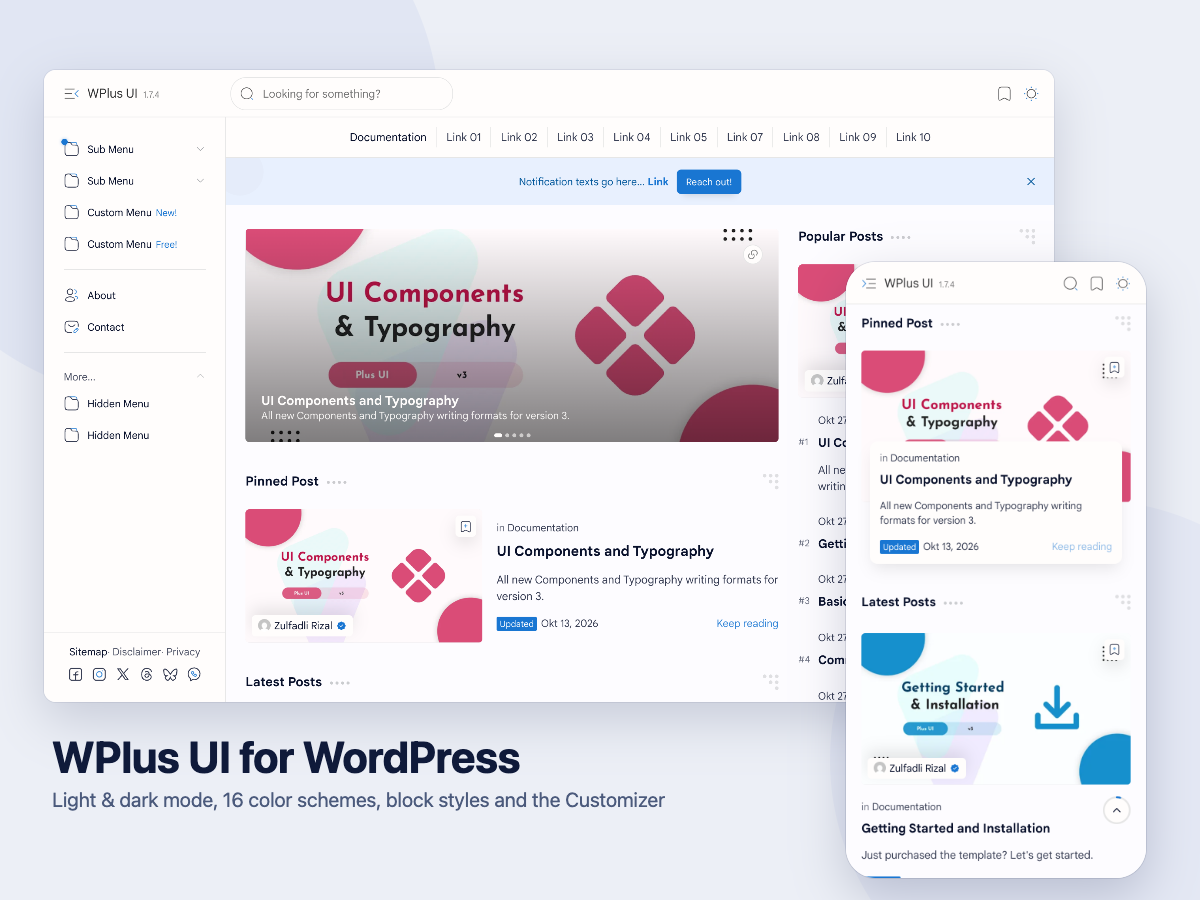
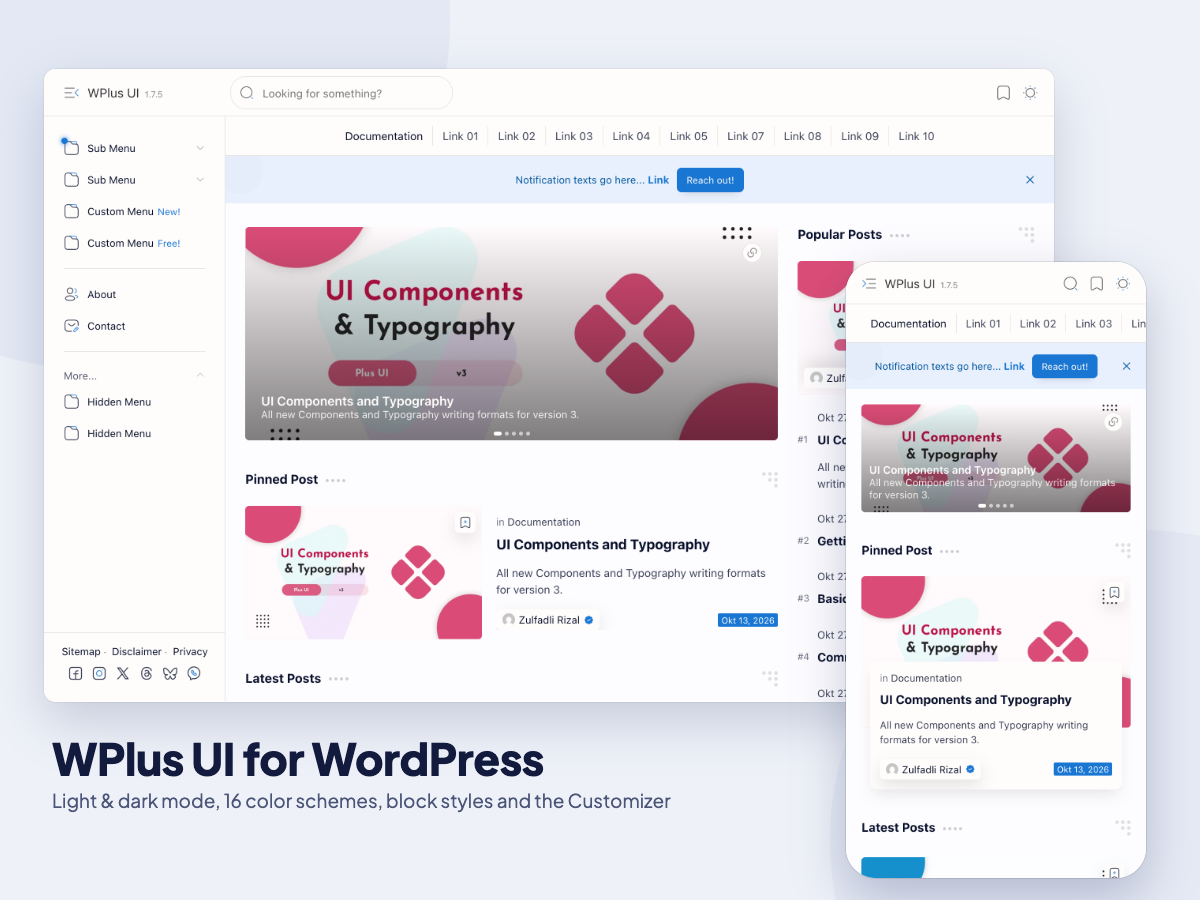
1.7.5: update notices appear on their own, sidebar footer menu, new post cards and tag blocks, code label only when set, rounded ad pictures, demo with code labels/footer menu/tags, new theme screenshot; tests and docs

diff --git a/wp-content/themes/wplus-ui/assets/css/style.css b/wp-content/themes/wplus-ui/assets/css/style.css
@@ -5,11 +5,11 @@
 
      Name             : WPlus UI
      Id               : wplus-ui
-     Version          : 1.7.4
+     Version          : 1.7.5
      Stage            : release
      Type             : Freemium
      Published        : October 02, 2026
-     Updated          : October 15, 2026
+     Updated          : October 20, 2026
      Platform         : WordPress
      CSS              : Vanilla
      JavaScript       : Vanilla, Modules
@@ -8549,11 +8549,11 @@ body .VIpgJd-ZVi9od-aZ2wEe .VIpgJd-ZVi9od-aZ2wEe-Jt5cK {
 
      Name             : WPlus UI
      Id               : wplus-ui
-     Version          : 1.7.4
+     Version          : 1.7.5
      Stage            : release
      Type             : Freemium
      Published        : October 02, 2026
-     Updated          : October 15, 2026
+     Updated          : October 20, 2026
      Platform         : WordPress
      CSS              : Vanilla
      JavaScript       : Vanilla, Modules
@@ -11949,11 +11949,11 @@ a.prfL:hover {
 
      Name             : WPlus UI
      Id               : wplus-ui
-     Version          : 1.7.4
+     Version          : 1.7.5
      Stage            : release
      Type             : Freemium
      Published        : October 02, 2026
-     Updated          : October 15, 2026
+     Updated          : October 20, 2026
      Platform         : WordPress
      CSS              : Vanilla
      JavaScript       : Vanilla, Modules
@@ -15034,11 +15034,11 @@ html:has(.papW:not([hidden]):not(.hidden)) {
 
      Name             : WPlus UI
      Id               : wplus-ui
-     Version          : 1.7.4
+     Version          : 1.7.5
      Stage            : release
      Type             : Freemium
      Published        : October 02, 2026
-     Updated          : October 15, 2026
+     Updated          : October 20, 2026
      Platform         : WordPress
      CSS              : Vanilla
      JavaScript       : Vanilla, Modules
@@ -18136,11 +18136,11 @@ img.ldC,
 
      Name             : WPlus UI
      Id               : wplus-ui
-     Version          : 1.7.4
+     Version          : 1.7.5
      Stage            : release
      Type             : Freemium
      Published        : October 02, 2026
-     Updated          : October 15, 2026
+     Updated          : October 20, 2026
      Platform         : WordPress
      CSS              : Vanilla
      JavaScript       : Vanilla, Modules

diff --git a/wp-content/themes/wplus-ui/style.css b/wp-content/themes/wplus-ui/style.css
@@ -4,7 +4,7 @@ Theme URI: https://github.com/zulfame/wplus-ui
 Author: Zulfadli Rizal
 Author URI: https://github.com/zulfame
 Description: WPlus UI is a WordPress theme forked from Plus UI by Fineshop Design, with light/dark mode, 16 color schemes, a pinned post, carousel, popup comments, bookmarks and block editor support.
-Version: 1.7.4
+Version: 1.7.5
 Requires at least: 6.3
 Tested up to: 7.0
 Requires PHP: 7.4

diff --git a/wp-content/themes/wplus-ui/demo-content/import-demo.php b/wp-content/themes/wplus-ui/demo-content/import-demo.php
@@ -21,9 +21,9 @@ require_once ABSPATH . 'wp-admin/includes/image.php';
 
 $dir = __DIR__ . '/images/';
 $map = array(
-	'ui-components-and-typography'      => array( 'ui-components-and-typography.png', array( 'featured' ), true ),
-	'getting-started-and-installation'  => array( 'getting-started-and-installation.png', array( 'featured' ) ),
-	'basic-setup-and-guidelines'        => array( 'basic-setup-and-guidelines.png', array( 'featured' ) ),
+	'ui-components-and-typography'      => array( 'ui-components-and-typography.png', array( 'featured', 'components', 'typography' ), true ),
+	'getting-started-and-installation'  => array( 'getting-started-and-installation.png', array( 'featured', 'tutorial', 'setup' ) ),
+	'basic-setup-and-guidelines'        => array( 'basic-setup-and-guidelines.png', array( 'featured', 'setup', 'guidelines' ) ),
 	'appearance-and-customization'      => array( 'appearance-and-customization.png' ),
 	'navigation-menu-customization'     => array( 'navigation-menu-customization.png' ),
 	'comment-settings-and-integrations' => array( 'comment-settings-and-integrations.png' ),
@@ -193,6 +193,34 @@ foreach ( array(
 	if ( $menu ) {
 		$locations[ $loc ] = $menu->term_id;
 	}
+}
+
+// Links at the bottom of the sidebar menu: a small menu of its own, so the demo shows how to edit them.
+$footer_menu = wp_get_nav_menu_object( 'Sidebar Footer Links' );
+if ( ! $footer_menu ) {
+	$footer_menu_id = wp_create_nav_menu( 'Sidebar Footer Links' );
+	if ( ! is_wp_error( $footer_menu_id ) ) {
+		foreach ( array(
+			'Sitemap'    => home_url( '/sitemap.xml' ),
+			'Disclaimer' => '#',
+			'Privacy'    => '#',
+		) as $label => $url ) {
+			wp_update_nav_menu_item(
+				$footer_menu_id,
+				0,
+				array(
+					'menu-item-title'  => $label,
+					'menu-item-url'    => $url,
+					'menu-item-type'   => 'custom',
+					'menu-item-status' => 'publish',
+				)
+			);
+		}
+		$footer_menu = wp_get_nav_menu_object( $footer_menu_id );
+	}
+}
+if ( $footer_menu ) {
+	$locations['drawer-footer'] = $footer_menu->term_id;
 }
 set_theme_mod( 'nav_menu_locations', $locations );
 

diff --git a/wp-content/themes/wplus-ui/functions.php b/wp-content/themes/wplus-ui/functions.php
@@ -9,7 +9,7 @@ if ( ! defined( 'ABSPATH' ) ) {
 	exit;
 }
 
-define( 'WPLUSUI_VERSION', '1.7.4' );
+define( 'WPLUSUI_VERSION', '1.7.5' );
 define( 'WPLUSUI_DIR', get_template_directory() );
 define( 'WPLUSUI_URI', get_template_directory_uri() );
 

diff --git a/docs/TRACE.md b/docs/TRACE.md
@@ -819,20 +819,20 @@ Setiap fitur di [FITUR.md](FITUR.md) dipecah menjadi klaim bernomor (`A01-1`, `A
 | Klaim | Pernyataan | Desktop | Mobile | Umum |
 |---|---|---|---|---|
 | M02-1 | Selesaikan demo dijalankan dua kali: jumlah pos, halaman, lampiran, menu, item menu, sticky, gambar unggulan tidak berubah |  |  | ✔ |
-| M02-2 | hasil: pos sticky ada, 19 gambar unggulan, 2 menu |  |  | ✔ |
+| M02-2 | hasil: pos sticky ada, 19 gambar unggulan, 3 menu |  |  | ✔ |
 | M02-3 | menimpa pengaturan Customizer dengan nilai demo (teks notifikasi buatan pemilik diganti teks demo) |  |  | ✔ |
 
 ### M03 Paket demo terpisah (13/13)
 
 | Klaim | Pernyataan | Desktop | Mobile | Umum |
 |---|---|---|---|---|
-| M03-1 | zip tema tanpa konten demo dan kecil (1.23 MB < 2 MB), hanya berisi logo dan 7 gambar galeri di assets/images (dirujuk teks pos demo lama); paket demo terpisah berisi XML, skrip impor, README dan 30 gambar |  |  | ✔ |
+| M03-1 | zip tema tanpa konten demo dan kecil (1.24 MB < 2 MB), hanya berisi logo dan 7 gambar galeri di assets/images (dirujuk teks pos demo lama); paket demo terpisah berisi XML, skrip impor, README dan 30 gambar |  |  | ✔ |
 | M03-2 | tema terpasang dari zip tidak punya folder demo-content dan tidak menemukan konten demo |  |  | ✔ |
 | M03-3 | halaman WPlus UI Demo tanpa paket: menawarkan "Download demo content" dan belum menampilkan langkah impor |  |  | ✔ |
 | M03-4 | rilis tanpa paket demo: pesan "tidak ditemukan"; checksum salah: dibatalkan; keduanya tidak meninggalkan berkas |  |  | ✔ |
 | M03-5 | unduh paket demo (checksum cocok): dibuka ke uploads/wplus-ui-demo dengan XML, skrip impor, 30 gambar; tautan XML menunjuk ke sana |  |  | ✔ |
 | M03-6 | halaman WPlus UI Demo sesudah unduh: langkah impor dan "Finish demo setup" tampil, tombol unduh hilang |  |  | ✔ |
-| M03-7 | impor XML dan "Finish demo setup" dari paket yang diunduh: 19 gambar unggulan, 2 menu, 1 pos sticky, tidak ada lagi alamat gambar di folder tema, 7 gambar galeri masuk media library |  |  | ✔ |
+| M03-7 | impor XML dan "Finish demo setup" dari paket yang diunduh: 19 gambar unggulan, 3 menu (utama, tautan cepat, tautan bawah sidebar), 1 pos sticky, tidak ada lagi alamat gambar di folder tema, 7 gambar galeri masuk media library |  |  | ✔ |
 | M03-8 | menjalankan "Finish demo setup" lagi tidak menggandakan lampiran |  |  | ✔ |
 | M03-9 | gambar di pos demo (galeri) dimuat dari media library: semua alamat menjawab 200 |  |  | ✔ |
 | M03-10 | situs hasil instal bersih + paket demo: 17 jenis halaman, desktop dan mobile, tanpa galat JavaScript |  |  | ✔ |

diff --git a/wp-content/themes/wplus-ui/CHANGELOG.md b/wp-content/themes/wplus-ui/CHANGELOG.md
@@ -1,5 +1,15 @@
 # Changelog
 
+## 1.7.5 - 2026-10-20
+
+- New: the links at the bottom of the sidebar menu (Sitemap, Disclaimer, Privacy) are a menu you can edit in Appearance > Menus. Without social icons they sit centered.
+- Improved: post cards show the author at the bottom left and the date in a badge at the bottom right.
+- Improved: the tags under a post look like the blocks of the Labels widget.
+- Fix: the label at the top right of a code sample is no longer guessed (it showed wrong names like vbnet or lua). It shows what you type in the code block settings, or </> when empty.
+- Fix: a picture in an ad slot has neat rounded corners like the cards.
+- Fix: a new theme version shows up on its own under Appearance > Themes and Dashboard > Updates, without pressing Check now. The first update to 1.7.5 may still need Check now once.
+- Improved: smaller demo download, a larger tap area for the bookmark button on related posts, and release note labels now end with a colon.
+
 ## 1.7.4 - 2026-10-15
 
 - Fix: the gallery pictures of the demo posts show again, also on a site that imported the demo before an update. They are back in the theme, in a lighter version (the theme download stays small).
